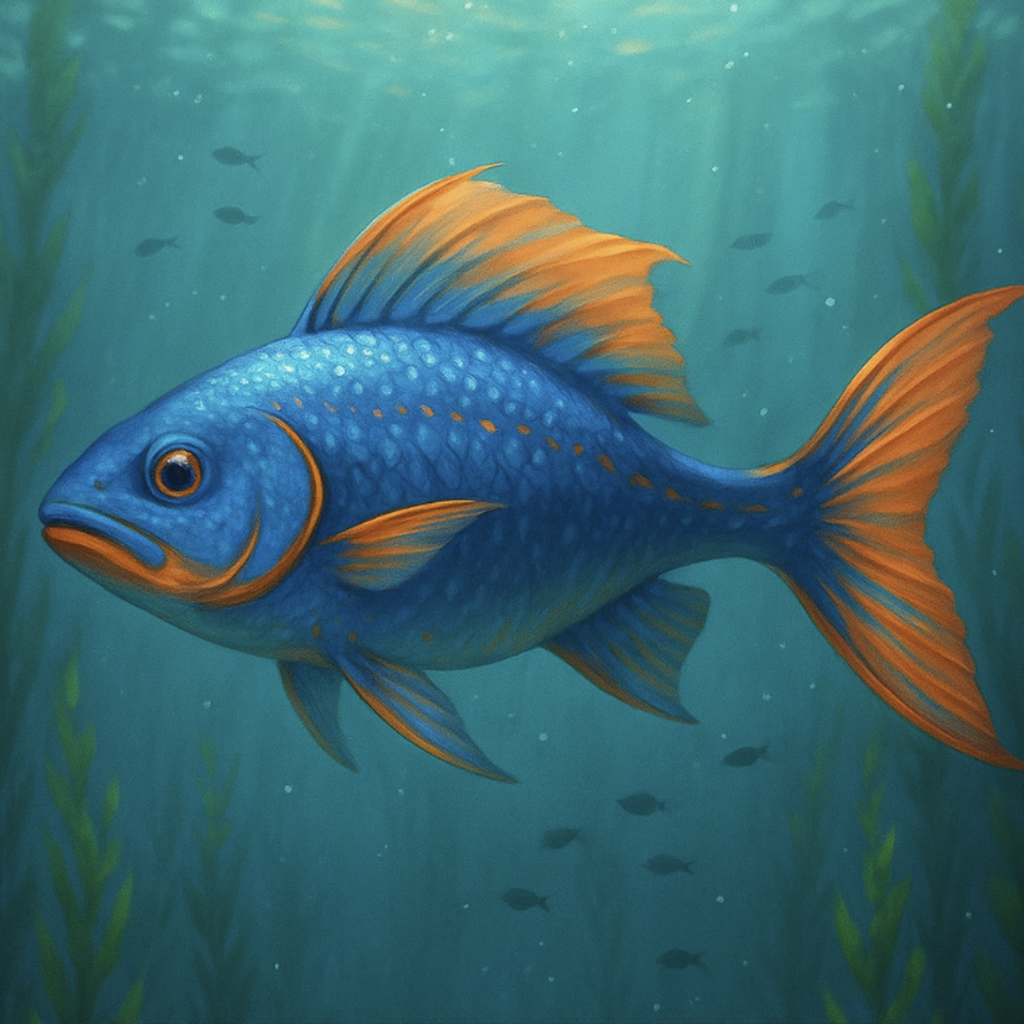
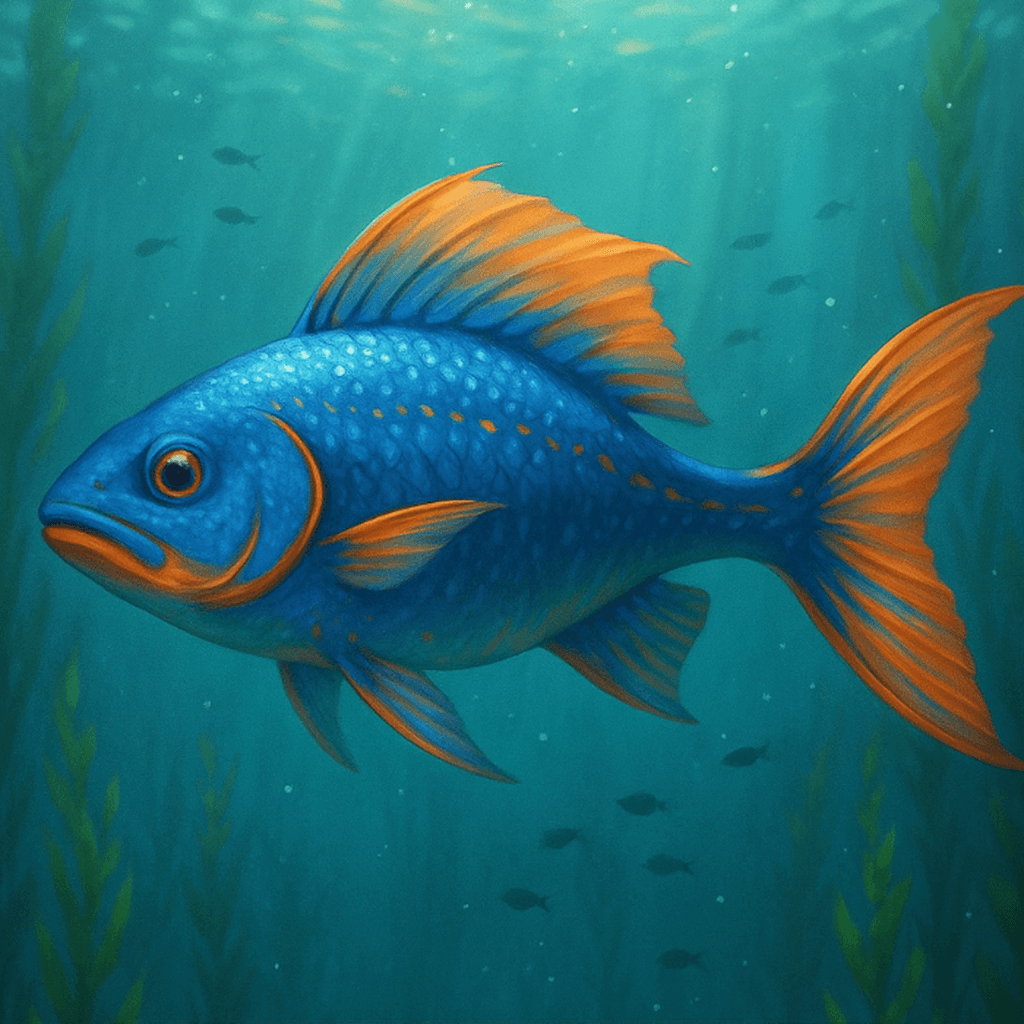
optimize images

diff --git a/src/components/AdminPanel.jsx b/src/components/AdminPanel.jsx
@@ -36,7 +36,7 @@ const AdminPanel = () => {
     const canvas = canvasRef.current;
     const ctx = canvas.getContext('2d');
     const mapImage = new Image();
-    mapImage.src = 'public/species_images/map.jpg';
+    mapImage.src = '/species_images/map.jpg';
 
     mapImage.onload = () => {
       ctx.clearRect(0, 0, canvasWidth, canvasHeight);
